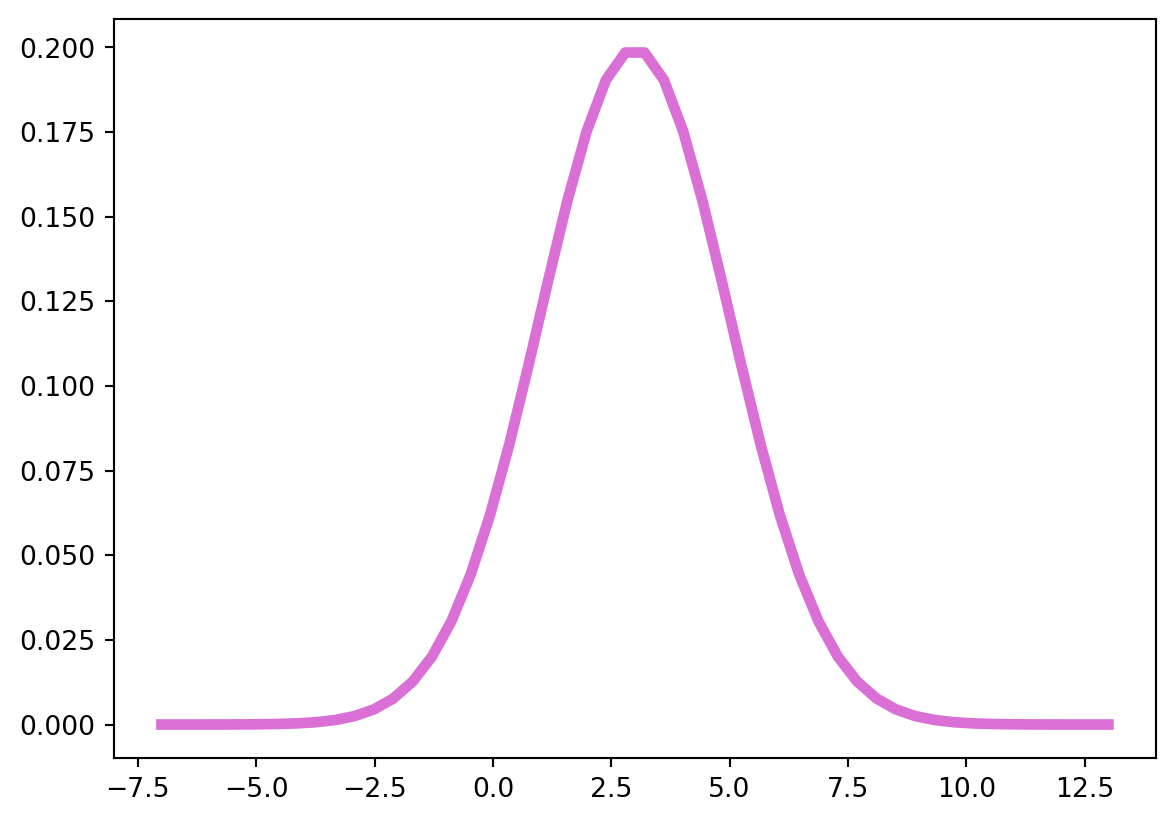
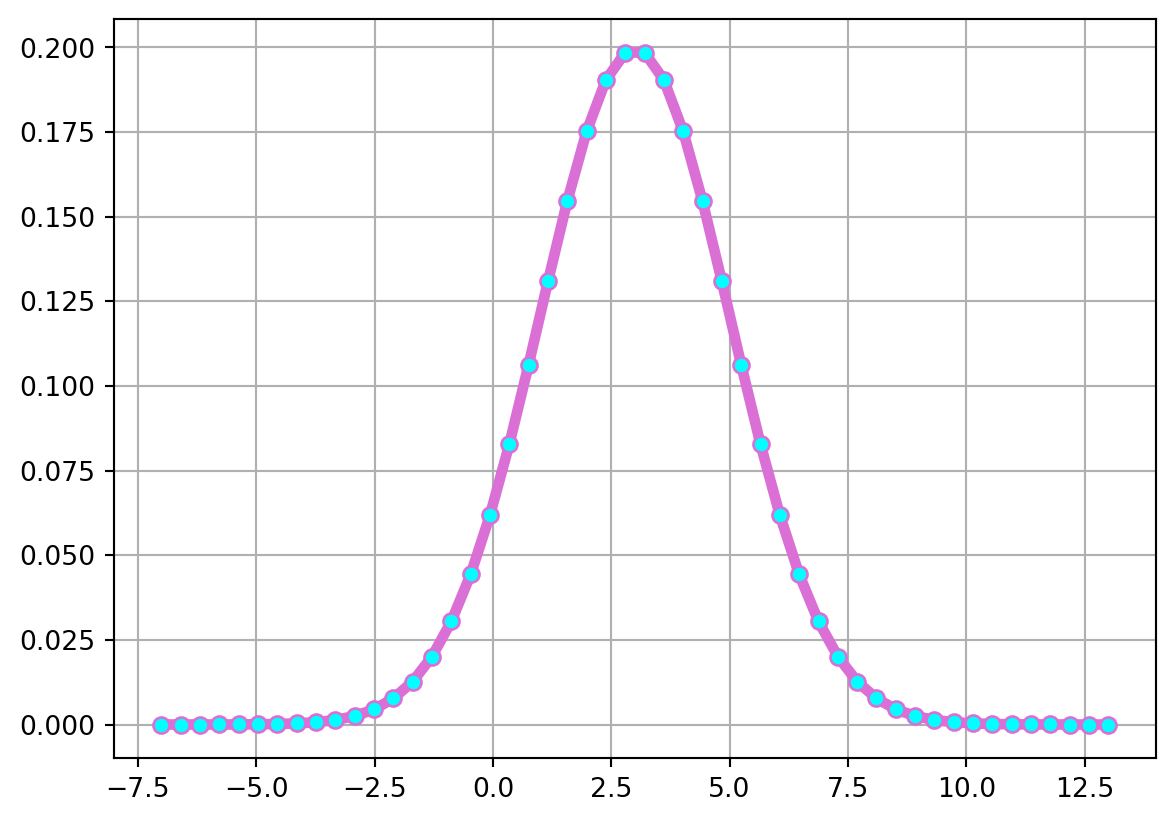
modify

diff --git a/docs/posts/hw3/index.html b/docs/posts/hw3/index.html
@@ -197,7 +197,7 @@ pre > code.sourceCode > span > a:first-child::before { text-decoration: underlin
 
 
 <p><img src="damgom.gif" class="img-fluid"></p>
-<div id="14888dc7" class="cell" data-execution_count="1">
+<div id="0f438805" class="cell" data-execution_count="1">
 <div class="sourceCode cell-code" id="cb1"><pre class="sourceCode python code-with-copy"><code class="sourceCode python"><span id="cb1-1"><a href="#cb1-1" aria-hidden="true" tabindex="-1"></a><span class="im">import</span> numpy <span class="im">as</span> np</span>
 <span id="cb1-2"><a href="#cb1-2" aria-hidden="true" tabindex="-1"></a><span class="im">import</span> pandas <span class="im">as</span> pd</span>
 <span id="cb1-3"><a href="#cb1-3" aria-hidden="true" tabindex="-1"></a><span class="im">import</span> seaborn <span class="im">as</span> sns</span>
@@ -208,18 +208,19 @@ pre > code.sourceCode > span > a:first-child::before { text-decoration: underlin
 <hr>
 <section id="정규분포-pdf-값을-계산하는-자신만의-파이썬-함수를-정의하고-정규분포-mu-3-sigma-2의-pdf를-그려보시오." class="level2">
 <h2 class="anchored" data-anchor-id="정규분포-pdf-값을-계산하는-자신만의-파이썬-함수를-정의하고-정규분포-mu-3-sigma-2의-pdf를-그려보시오.">1. 정규분포 pdf 값을 계산하는 자신만의 파이썬 함수를 정의하고, 정규분포 mu = 3, sigma = 2의 pdf를 그려보시오.</h2>
-<div id="4772c9d0" class="cell" data-execution_count="2">
+<div id="3e1357e2" class="cell" data-execution_count="2">
 <div class="sourceCode cell-code" id="cb2"><pre class="sourceCode python code-with-copy"><code class="sourceCode python"><span id="cb2-1"><a href="#cb2-1" aria-hidden="true" tabindex="-1"></a><span class="kw">def</span> pdf(x, mu, sigma):</span>
 <span id="cb2-2"><a href="#cb2-2" aria-hidden="true" tabindex="-1"></a>    a <span class="op">=</span> <span class="dv">1</span> <span class="op">/</span> (sigma <span class="op">*</span> np.sqrt(<span class="dv">2</span> <span class="op">*</span> math.pi))</span>
 <span id="cb2-3"><a href="#cb2-3" aria-hidden="true" tabindex="-1"></a>    b <span class="op">=</span> (x <span class="op">-</span> mu) <span class="op">/</span> sigma</span>
 <span id="cb2-4"><a href="#cb2-4" aria-hidden="true" tabindex="-1"></a>    <span class="cf">return</span> a <span class="op">*</span> np.exp((<span class="op">-</span><span class="dv">1</span><span class="op">/</span><span class="dv">2</span>) <span class="op">*</span> b<span class="op">**</span><span class="dv">2</span>)</span></code><button title="Copy to Clipboard" class="code-copy-button"><i class="bi"></i></button></pre></div>
 </div>
-<div id="a9d34de9" class="cell" data-execution_count="3">
+<div id="37052c31" class="cell" data-execution_count="3">
 <div class="sourceCode cell-code" id="cb3"><pre class="sourceCode python code-with-copy"><code class="sourceCode python"><span id="cb3-1"><a href="#cb3-1" aria-hidden="true" tabindex="-1"></a>k <span class="op">=</span> np.linspace(<span class="op">-</span><span class="dv">7</span>, <span class="dv">13</span>)</span>
 <span id="cb3-2"><a href="#cb3-2" aria-hidden="true" tabindex="-1"></a>y <span class="op">=</span> pdf(k, <span class="dv">3</span>, <span class="dv">2</span>)</span>
-<span id="cb3-3"><a href="#cb3-3" aria-hidden="true" tabindex="-1"></a>plt.plot(k, y, color<span class="op">=</span><span class="st">"orchid"</span>, linewidth<span class="op">=</span><span class="dv">4</span>)</span>
-<span id="cb3-4"><a href="#cb3-4" aria-hidden="true" tabindex="-1"></a>plt.show()</span>
-<span id="cb3-5"><a href="#cb3-5" aria-hidden="true" tabindex="-1"></a>plt.clf()</span></code><button title="Copy to Clipboard" class="code-copy-button"><i class="bi"></i></button></pre></div>
+<span id="cb3-3"><a href="#cb3-3" aria-hidden="true" tabindex="-1"></a>plt.plot(k, y, color<span class="op">=</span><span class="st">"orchid"</span>, linewidth<span class="op">=</span><span class="dv">4</span>, marker<span class="op">=</span><span class="st">'o'</span>, markerfacecolor <span class="op">=</span> <span class="st">'aqua'</span>)</span>
+<span id="cb3-4"><a href="#cb3-4" aria-hidden="true" tabindex="-1"></a>plt.grid(<span class="va">True</span>)</span>
+<span id="cb3-5"><a href="#cb3-5" aria-hidden="true" tabindex="-1"></a>plt.show()</span>
+<span id="cb3-6"><a href="#cb3-6" aria-hidden="true" tabindex="-1"></a>plt.clf()</span></code><button title="Copy to Clipboard" class="code-copy-button"><i class="bi"></i></button></pre></div>
 <div class="cell-output cell-output-display">
 <div>
 <figure class="figure">
@@ -236,7 +237,7 @@ pre > code.sourceCode > span > a:first-child::before { text-decoration: underlin
 </section>
 <section id="파이썬-scipy-패키지를-사용해서-다음과-같은-확률을-구하시오." class="level2">
 <h2 class="anchored" data-anchor-id="파이썬-scipy-패키지를-사용해서-다음과-같은-확률을-구하시오.">2. 파이썬 scipy 패키지를 사용해서 다음과 같은 확률을 구하시오.</h2>
-<div id="b1f0c01b" class="cell" data-execution_count="4">
+<div id="7dbad44d" class="cell" data-execution_count="4">
 <div class="sourceCode cell-code" id="cb5"><pre class="sourceCode python code-with-copy"><code class="sourceCode python"><span id="cb5-1"><a href="#cb5-1" aria-hidden="true" tabindex="-1"></a><span class="im">from</span> scipy.stats <span class="im">import</span> bernoulli</span>
 <span id="cb5-2"><a href="#cb5-2" aria-hidden="true" tabindex="-1"></a><span class="im">from</span> scipy.stats <span class="im">import</span> binom</span>
 <span id="cb5-3"><a href="#cb5-3" aria-hidden="true" tabindex="-1"></a><span class="im">from</span> scipy.stats <span class="im">import</span> norm</span></code><button title="Copy to Clipboard" class="code-copy-button"><i class="bi"></i></button></pre></div>
@@ -248,7 +249,7 @@ pre > code.sourceCode > span > a:first-child::before { text-decoration: underlin
 <li>P(X&lt;3)</li>
 </ol></li>
 </ul>
-<div id="0a6e1679" class="cell" data-execution_count="5">
+<div id="7db74ce3" class="cell" data-execution_count="5">
 <div class="sourceCode cell-code" id="cb6"><pre class="sourceCode python code-with-copy"><code class="sourceCode python"><span id="cb6-1"><a href="#cb6-1" aria-hidden="true" tabindex="-1"></a>a <span class="op">=</span> norm.cdf(<span class="dv">3</span>,loc<span class="op">=</span><span class="dv">2</span>,scale<span class="op">=</span><span class="dv">3</span>)</span>
 <span id="cb6-2"><a href="#cb6-2" aria-hidden="true" tabindex="-1"></a><span class="bu">print</span>(<span class="st">'확률은 '</span> <span class="op">+</span> <span class="bu">str</span>(a.<span class="bu">round</span>(<span class="dv">3</span>)) <span class="op">+</span> <span class="st">'입니다.'</span>)</span></code><button title="Copy to Clipboard" class="code-copy-button"><i class="bi"></i></button></pre></div>
 <div class="cell-output cell-output-stdout">
@@ -261,7 +262,7 @@ pre > code.sourceCode > span > a:first-child::before { text-decoration: underlin
 <li>P(2&lt;X&lt;5)</li>
 </ol></li>
 </ul>
-<div id="817f9819" class="cell" data-execution_count="6">
+<div id="ddbf7e3b" class="cell" data-execution_count="6">
 <div class="sourceCode cell-code" id="cb8"><pre class="sourceCode python code-with-copy"><code class="sourceCode python"><span id="cb8-1"><a href="#cb8-1" aria-hidden="true" tabindex="-1"></a>b <span class="op">=</span> norm.cdf(<span class="dv">5</span>,loc<span class="op">=</span><span class="dv">2</span>,scale<span class="op">=</span><span class="dv">3</span>) <span class="op">-</span> norm.cdf(<span class="dv">2</span>,loc<span class="op">=</span><span class="dv">2</span>,scale<span class="op">=</span><span class="dv">3</span>)</span>
 <span id="cb8-2"><a href="#cb8-2" aria-hidden="true" tabindex="-1"></a><span class="bu">print</span>(<span class="st">'확률은 '</span> <span class="op">+</span> <span class="bu">str</span>(b.<span class="bu">round</span>(<span class="dv">3</span>)) <span class="op">+</span> <span class="st">'입니다.'</span>)</span></code><button title="Copy to Clipboard" class="code-copy-button"><i class="bi"></i></button></pre></div>
 <div class="cell-output cell-output-stdout">
@@ -274,7 +275,7 @@ pre > code.sourceCode > span > a:first-child::before { text-decoration: underlin
 <li>P(X&lt;3 or X&gt;7)</li>
 </ol></li>
 </ul>
-<div id="2d67337f" class="cell" data-execution_count="7">
+<div id="f8bc680e" class="cell" data-execution_count="7">
 <div class="sourceCode cell-code" id="cb10"><pre class="sourceCode python code-with-copy"><code class="sourceCode python"><span id="cb10-1"><a href="#cb10-1" aria-hidden="true" tabindex="-1"></a>c <span class="op">=</span> <span class="dv">1</span> <span class="op">-</span> (norm.cdf(<span class="dv">7</span>,loc<span class="op">=</span><span class="dv">2</span>,scale<span class="op">=</span><span class="dv">3</span>) <span class="op">-</span> norm.cdf(<span class="dv">3</span>,loc<span class="op">=</span><span class="dv">2</span>,scale<span class="op">=</span><span class="dv">3</span>))</span>
 <span id="cb10-2"><a href="#cb10-2" aria-hidden="true" tabindex="-1"></a><span class="bu">print</span>(<span class="st">'확률은 '</span> <span class="op">+</span> <span class="bu">str</span>(c.<span class="bu">round</span>(<span class="dv">3</span>)) <span class="op">+</span> <span class="st">'입니다.'</span>)</span></code><button title="Copy to Clipboard" class="code-copy-button"><i class="bi"></i></button></pre></div>
 <div class="cell-output cell-output-stdout">
@@ -285,7 +286,7 @@ pre > code.sourceCode > span > a:first-child::before { text-decoration: underlin
 </section>
 <section id="ls-빅데이터스쿨-학생들의-중간고사-점수는-평균이-30이고-분산이-4인-정규분포를-따른다.-상위-5에-해당하는-학생의-점수는" class="level2">
 <h2 class="anchored" data-anchor-id="ls-빅데이터스쿨-학생들의-중간고사-점수는-평균이-30이고-분산이-4인-정규분포를-따른다.-상위-5에-해당하는-학생의-점수는">3. LS 빅데이터스쿨 학생들의 중간고사 점수는 평균이 30이고, 분산이 4인 정규분포를 따른다. 상위 5%에 해당하는 학생의 점수는?</h2>
-<div id="45afa798" class="cell" data-execution_count="8">
+<div id="6bf36c62" class="cell" data-execution_count="8">
 <div class="sourceCode cell-code" id="cb12"><pre class="sourceCode python code-with-copy"><code class="sourceCode python"><span id="cb12-1"><a href="#cb12-1" aria-hidden="true" tabindex="-1"></a><span class="co"># X~N(30,2)</span></span>
 <span id="cb12-2"><a href="#cb12-2" aria-hidden="true" tabindex="-1"></a>d <span class="op">=</span> norm.ppf(<span class="fl">0.95</span>,<span class="dv">30</span>,<span class="dv">2</span>)</span>
 <span id="cb12-3"><a href="#cb12-3" aria-hidden="true" tabindex="-1"></a><span class="bu">print</span>(<span class="st">'해당 학생의 점수는 '</span> <span class="op">+</span> <span class="bu">str</span>(d.<span class="bu">round</span>(<span class="dv">3</span>)) <span class="op">+</span> <span class="st">'입니다.'</span>)</span></code><button title="Copy to Clipboard" class="code-copy-button"><i class="bi"></i></button></pre></div>

diff --git a/docs/blog.html b/docs/blog.html
@@ -202,7 +202,7 @@ window.Quarto = {
 
 <div class="quarto-listing quarto-listing-container-default" id="listing-listing">
 <div class="list quarto-listing-default">
-<div class="quarto-post image-right" data-index="0" data-categories="bigdata" data-listing-date-sort="1721833200000" data-listing-file-modified-sort="1721901004554" data-listing-date-modified-sort="NaN" data-listing-reading-time-sort="1" data-listing-word-count-sort="140">
+<div class="quarto-post image-right" data-index="0" data-categories="bigdata" data-listing-date-sort="1721833200000" data-listing-file-modified-sort="1721901621639" data-listing-date-modified-sort="NaN" data-listing-reading-time-sort="1" data-listing-word-count-sort="144">
 <div class="thumbnail">
 <p><a href="./posts/hw3/index.html" class="no-external"></a></p><a href="./posts/hw3/index.html" class="no-external">
 <p class="card-img-top"><img src="posts\hw3\damgom.gif"  class="thumbnail-image card-img"/></p>
@@ -235,7 +235,7 @@ yongraegod
 </a>
 </div>
 </div>
-<div class="quarto-post image-right" data-index="1" data-categories="bigdata" data-listing-date-sort="1721574000000" data-listing-file-modified-sort="1721645526357" data-listing-date-modified-sort="NaN" data-listing-reading-time-sort="2" data-listing-word-count-sort="217">
+<div class="quarto-post image-right" data-index="1" data-categories="bigdata" data-listing-date-sort="1721574000000" data-listing-file-modified-sort="1721901140237" data-listing-date-modified-sort="NaN" data-listing-reading-time-sort="2" data-listing-word-count-sort="217">
 <div class="thumbnail">
 <p><a href="./posts/hw2-3/index.html" class="no-external"></a></p><a href="./posts/hw2-3/index.html" class="no-external">
 <p class="card-img-top"><img src="posts\hw2-3\damgom4.jpg"  class="thumbnail-image card-img"/></p>
@@ -243,7 +243,7 @@ yongraegod
 </div>
 <div class="body">
 <h3 class="no-anchor listing-title">
-<a href="./posts/hw2-3/index.html" class="no-external">LS 빅데이터 스쿨 Homework 4</a>
+<a href="./posts/hw2-3/index.html" class="no-external">LS 빅데이터 스쿨 Homework 2-3</a>
 </h3>
 <div class="listing-subtitle">
 <a href="./posts/hw2-3/index.html" class="no-external"></a>
@@ -301,7 +301,7 @@ yongraegod
 </a>
 </div>
 </div>
-<div class="quarto-post image-right" data-index="3" data-categories="bigdata" data-listing-date-sort="1721142000000" data-listing-file-modified-sort="1721221138041" data-listing-date-modified-sort="NaN" data-listing-reading-time-sort="1" data-listing-word-count-sort="91">
+<div class="quarto-post image-right" data-index="3" data-categories="bigdata" data-listing-date-sort="1721142000000" data-listing-file-modified-sort="1721901147263" data-listing-date-modified-sort="NaN" data-listing-reading-time-sort="1" data-listing-word-count-sort="91">
 <div class="thumbnail">
 <p><a href="./posts/hw2-2/index.html" class="no-external"></a></p><a href="./posts/hw2-2/index.html" class="no-external">
 <p class="card-img-top"><img src="posts\hw2-2\damgom3.jpg"  class="thumbnail-image card-img"/></p>
@@ -309,7 +309,7 @@ yongraegod
 </div>
 <div class="body">
 <h3 class="no-anchor listing-title">
-<a href="./posts/hw2-2/index.html" class="no-external">LS 빅데이터 스쿨 Homework 3</a>
+<a href="./posts/hw2-2/index.html" class="no-external">LS 빅데이터 스쿨 Homework 2-2</a>
 </h3>
 <div class="listing-subtitle">
 <a href="./posts/hw2-2/index.html" class="no-external"></a>
@@ -334,7 +334,7 @@ yongraegod
 </a>
 </div>
 </div>
-<div class="quarto-post image-right" data-index="4" data-categories="bigdata" data-listing-date-sort="1721055600000" data-listing-file-modified-sort="1721192360595" data-listing-date-modified-sort="NaN" data-listing-reading-time-sort="2" data-listing-word-count-sort="258">
+<div class="quarto-post image-right" data-index="4" data-categories="bigdata" data-listing-date-sort="1721055600000" data-listing-file-modified-sort="1721901152485" data-listing-date-modified-sort="NaN" data-listing-reading-time-sort="2" data-listing-word-count-sort="258">
 <div class="thumbnail">
 <p><a href="./posts/hw2-1/index.html" class="no-external"></a></p><a href="./posts/hw2-1/index.html" class="no-external">
 <p class="card-img-top"><img src="posts\hw2-1\damgom2.jpg"  class="thumbnail-image card-img"/></p>
@@ -342,7 +342,7 @@ yongraegod
 </div>
 <div class="body">
 <h3 class="no-anchor listing-title">
-<a href="./posts/hw2-1/index.html" class="no-external">LS 빅데이터 스쿨 Homework 2</a>
+<a href="./posts/hw2-1/index.html" class="no-external">LS 빅데이터 스쿨 Homework 2-1</a>
 </h3>
 <div class="listing-subtitle">
 <a href="./posts/hw2-1/index.html" class="no-external"></a>
